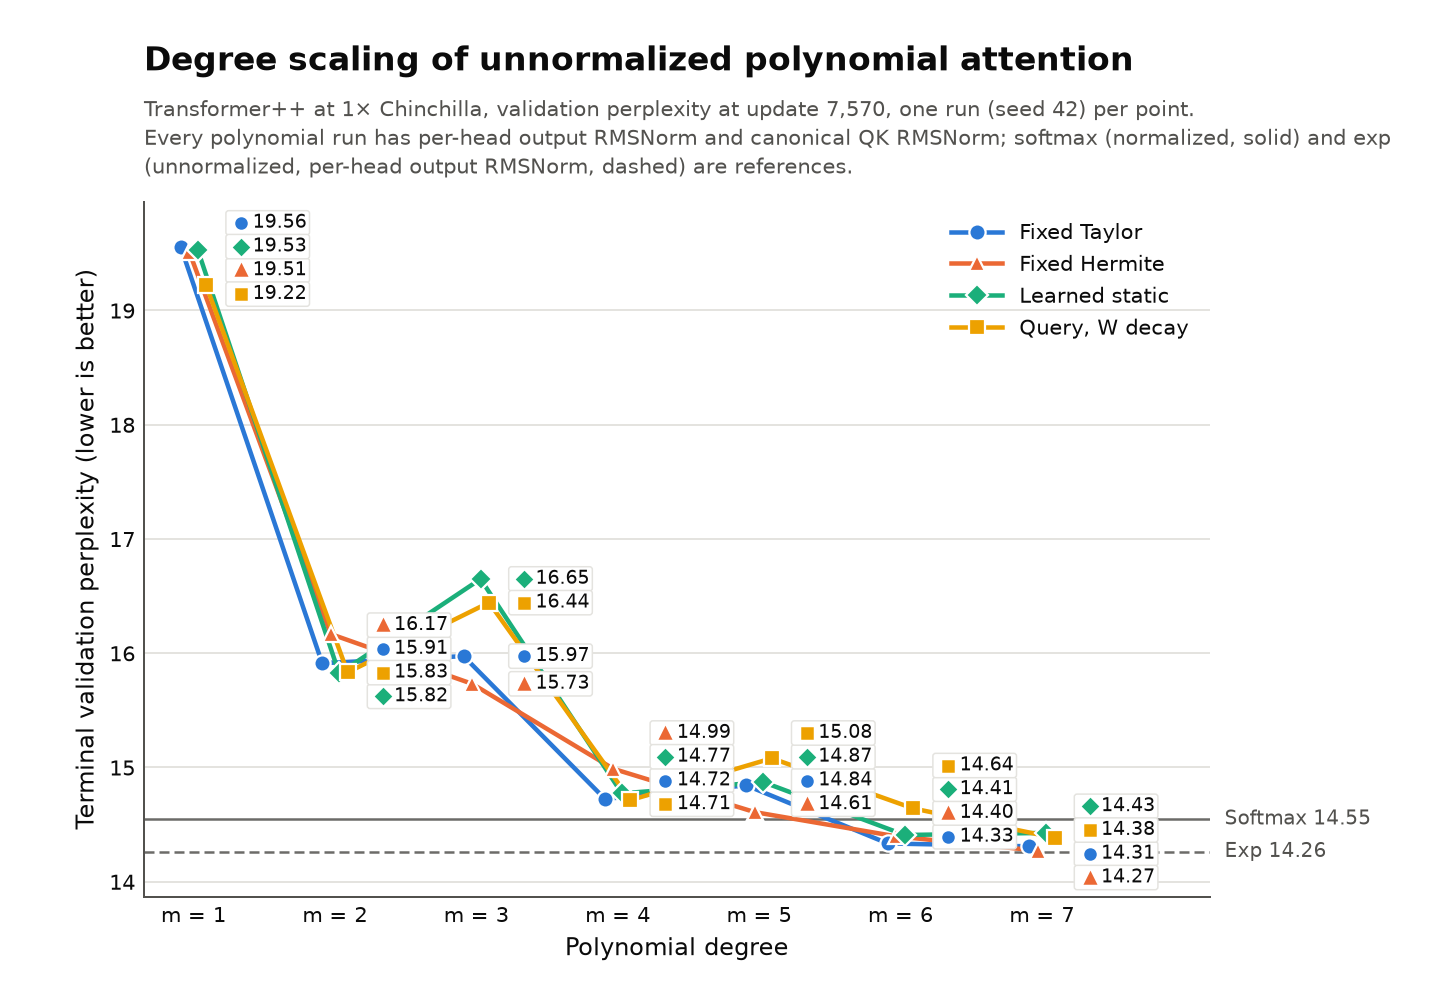
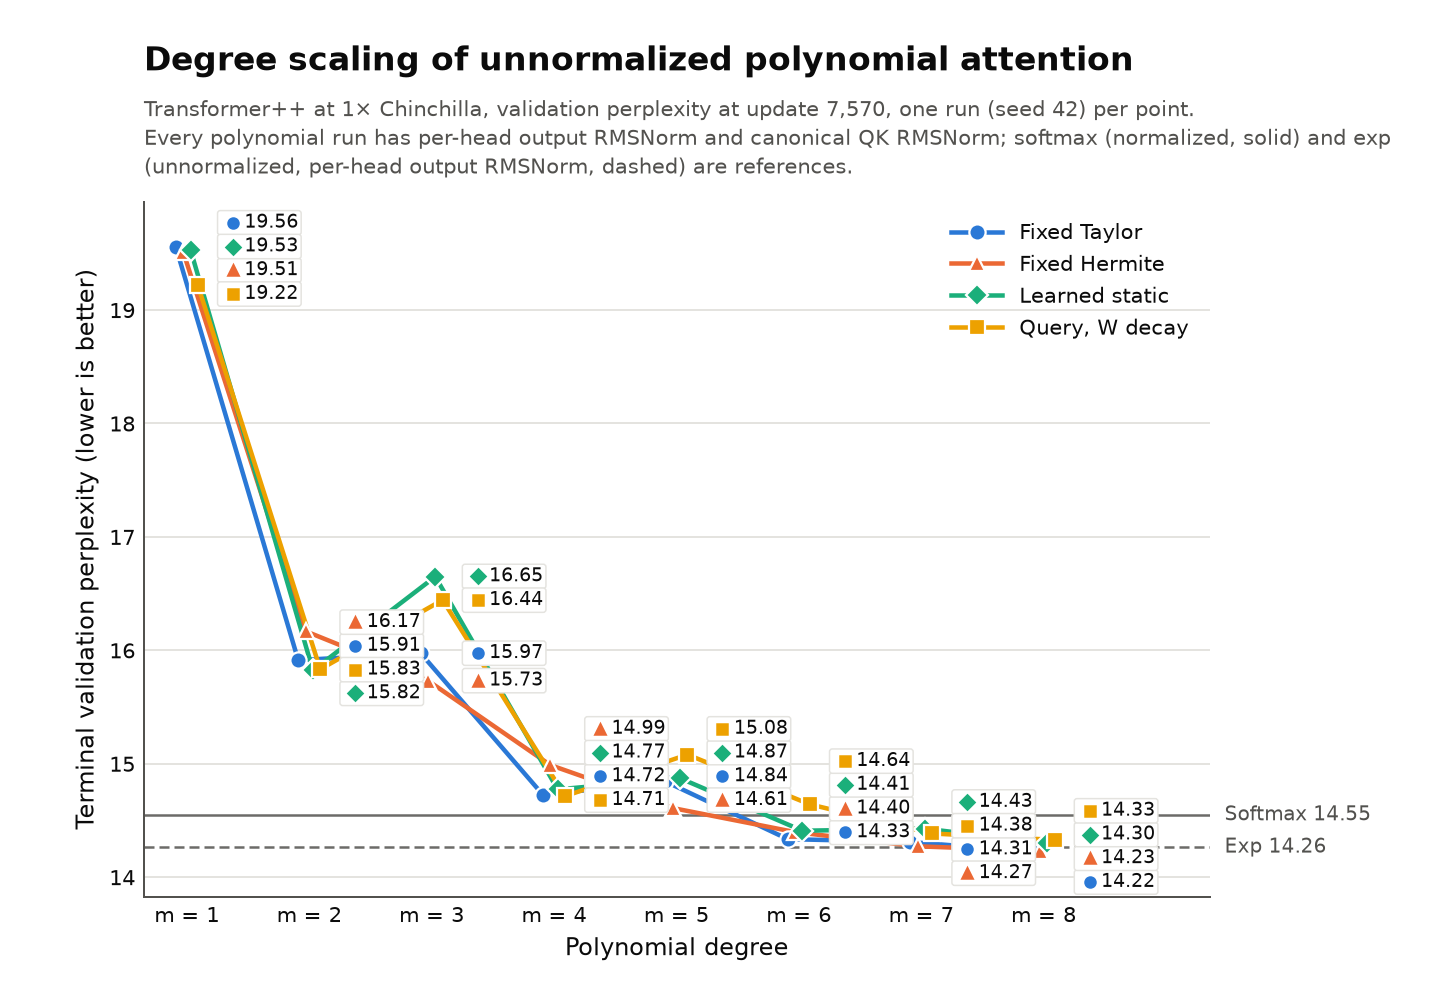
Add the m = 8 column to the degree-scaling collection
Fixed Taylor ra7ee8a4b2544 (14.223 terminal), Hermite ra040de24096c (14.231), static
r9c69dd7cfc8d (14.299) and query + W decay r25fffc16c2f3 (14.328): every family improves
from m = 7 and is best at m = 8, and the fixed families end 0.2-0.3% below exp. The recipe
check treats the newer fields records create fills as their historical defaults, and the
indexes and READMEs now describe m = 1-8 with thirty-two runs.

Changed region(s): [[0.0625, 0.2153, 0.9688, 0.9226], [0.0625, 0.6458, 0.0938, 0.6766]]

diff --git a/experiments/transformer_pp/results/degree_scaling/tests/test_degree_scaling.py b/experiments/transformer_pp/results/degree_scaling/tests/test_degree_scaling.py
@@ -25,6 +25,7 @@ TERMINAL = {
     ("query_w_decay", 1): 19.219, ("query_w_decay", 2): 15.832, ("query_w_decay", 3): 16.443,
     ("query_w_decay", 4): 14.714, ("query_w_decay", 5): 15.080, ("query_w_decay", 6): 14.641,
     ("query_w_decay", 7): 14.384,
+    ("taylor", 8): 14.223, ("hermite", 8): 14.231, ("static", 8): 14.2985, ("query_w_decay", 8): 14.328,
 }
 
 
@@ -35,7 +36,7 @@ def _digest(path: Path) -> str:
 def test_committed_runs_and_quoted_values():
     rows = load_runs(SELECTION)
     cells = {(row["family"], row["degree"]): row for row in rows if row["role"] == "primary"}
-    assert len(rows) == 30 and set(cells) == set(TERMINAL)
+    assert len(rows) == 34 and set(cells) == set(TERMINAL)
     assert {row["terminal_step"] for row in rows} == {7570}
     assert {row["best_validation_step"] for row in rows} == {7500}
     for cell, value in TERMINAL.items():
@@ -58,6 +59,13 @@ def test_committed_runs_and_quoted_values():
     assert cells["static", 7]["change_from_previous_degree_percent"] == pytest.approx(0.13, abs=5e-3)
     assert cells["query_w_decay", 7]["change_from_previous_degree_percent"] == pytest.approx(-1.75, abs=5e-3)
     assert cells["hermite", 7]["percent_above_exp"] == pytest.approx(0.07, abs=5e-3)
+    # m = 8: every family improves; the fixed families end 0.2-0.3% below exp.
+    assert cells["taylor", 8]["change_from_previous_degree_percent"] == pytest.approx(-0.60, abs=5e-3)
+    assert cells["static", 8]["change_from_previous_degree_percent"] == pytest.approx(-0.89, abs=5e-3)
+    assert cells["taylor", 8]["percent_above_exp"] == pytest.approx(-0.27, abs=5e-3)
+    assert cells["hermite", 8]["percent_above_exp"] == pytest.approx(-0.21, abs=5e-3)
+    assert cells["query_w_decay", 8]["percent_above_exp"] == pytest.approx(0.46, abs=5e-3)
+    assert cells["taylor", 8]["percent_above_softmax"] == pytest.approx(-2.22, abs=5e-3)
     # The m = 1 Taylor and Hermite runs train the same function; their gap is the noise scale.
     twin = cells["taylor", 1]["terminal_validation_perplexity"] - cells["hermite", 1]["terminal_validation_perplexity"]
     assert twin == pytest.approx(0.042, abs=5e-4)

diff --git a/experiments/transformer_pp/results/degree_scaling/plot.py b/experiments/transformer_pp/results/degree_scaling/plot.py
@@ -59,6 +59,9 @@ ABSENT = {
     "continuation.parent_step": 0, "model.attention_forget_gate": False,
     "model.attention_coefficient_kernel_weight_decay": False, "model.qk_norm_token_scale": "none",
     "model.qk_norm_token_scale_kernel_weight_decay": False, "optim.query_coefficient_learning_rate_scale": 1.0,
+    "continuation.preserve_all_parameters": False, "model.attention_coefficient_orders": None,
+    "model.attention_forget_gate_form": "input", "model.attention_forget_gate_mode": "cumulative",
+    "model.attention_forget_gate_conditioning": "query", "model.attention_forget_gate_rate_activation": "softplus",
 }
 # Within a family only the degree changes, with the Hermite coefficients it determines;
 # between families the coefficient parameterization changes too, and the references also

diff --git a/experiments/transformer_pp/results/degree_scaling/README.md b/experiments/transformer_pp/results/degree_scaling/README.md
@@ -1,7 +1,7 @@
 # Degree scaling at 1×
 
 **Question.** How does held-out perplexity change with the polynomial degree
-`m = 1, 2, 3, 4, 5, 6, 7` for fixed Taylor, fixed Hermite, learned static, and query
+`m = 1, 2, 3, 4, 5, 6, 7, 8` for fixed Taylor, fixed Hermite, learned static, and query
 coefficients with projection weight decay, under the Transformer++ recipe at 1×
 Chinchilla?
 
@@ -24,12 +24,12 @@ Mosaic kernels.
 - **Query, W decay:** `c_r(x_t) = [b_r + a_r tanh(w_r^T x_t)]/r!` per layer and head,
   starting at Taylor, with AdamW weight decay 0.1 on the projection `w_r`.
 
-| Family | m = 1 | m = 2 | m = 3 | m = 4 | m = 5 | m = 6 | m = 7 |
-| --- | --- | --- | --- | --- | --- | --- | --- |
-| Fixed Taylor | `ra7f2fda1c792` | `rdb1c706a5b85` | `r81fad1755b11` | `r816ab0fbe119` | `r8a526282ac43` | `r167091e2aeac` | `re12e78d1ded3` |
-| Fixed Hermite | `rddf0b0173f42` | `rdf6363a4b83c` | `rf378c0e67607` | `rbd0cd771c676` | `rf1993c745e17` | `r3a332ae60437` | `r751e8aaecb78` |
-| Learned static | `r5c691128699f` | `r99c3ab7d8a77` | `r1f880c4ee659` | `r4339a245820e` | `r3feaf71ff7af` | `r5e6f23bd0533` | `r99ba8f9d26fc` |
-| Query, W decay | `rf9099d70ab3a` | `rd6b4d16d81bb` | `r00f1f91a7803` | `rca97cc9db8f2` | `r5de86f9f02da` | `r688344e6dcc6` | `rdb67453630c8` |
+| Family | m = 1 | m = 2 | m = 3 | m = 4 | m = 5 | m = 6 | m = 7 | m = 8 |
+| --- | --- | --- | --- | --- | --- | --- | --- | --- |
+| Fixed Taylor | `ra7f2fda1c792` | `rdb1c706a5b85` | `r81fad1755b11` | `r816ab0fbe119` | `r8a526282ac43` | `r167091e2aeac` | `re12e78d1ded3` | `ra7ee8a4b2544` |
+| Fixed Hermite | `rddf0b0173f42` | `rdf6363a4b83c` | `rf378c0e67607` | `rbd0cd771c676` | `rf1993c745e17` | `r3a332ae60437` | `r751e8aaecb78` | `ra040de24096c` |
+| Learned static | `r5c691128699f` | `r99c3ab7d8a77` | `r1f880c4ee659` | `r4339a245820e` | `r3feaf71ff7af` | `r5e6f23bd0533` | `r99ba8f9d26fc` | `r9c69dd7cfc8d` |
+| Query, W decay | `rf9099d70ab3a` | `rd6b4d16d81bb` | `r00f1f91a7803` | `rca97cc9db8f2` | `r5de86f9f02da` | `r688344e6dcc6` | `rdb67453630c8` | `r25fffc16c2f3` |
 
 Four cells reuse completed Kennel runs: Taylor at `m = 4` (B300) and static at `m = 4`
 (H100 PCIe) trained with the earlier host-loop trainer, and query at `m = 2` (B300) and
@@ -54,6 +54,14 @@ The four `m = 7` runs copy their family's `m = 6` recipe with degree 7 (and, for
 the degree-7 coefficients) and trained on ORCD H100 80GB HBM3s with the same scaffold
 code, from a branch started at `c3e963a6`.
 
+At `m = 8`, fixed Taylor (`ra7ee8a4b2544`) and Hermite (`ra040de24096c`) copy their family's
+`m = 6` recipe with degree 8 (and, for Hermite, the degree-8 coefficients). Static
+(`r9c69dd7cfc8d`, the even-powers topic's full degree-eight control) and query
+(`r25fffc16c2f3`, from the key-width topic) are runs of the same recipes at degree 8; the
+recipe check confirms that all four differ from their family only in degree. All four
+trained on Kennel: Taylor and static on an H100 PCIe, Hermite on an H100 PCIe (preempted
+twice) and then an H100 SXM, and query on a B300.
+
 Hermite at `m = 1` is `exp(1/2)` times Taylor at `m = 1`. The output RMSNorm removes
 that factor, so the two runs train the same function up to the norm's epsilon and
 floating point; their difference measures how far equivalent runs diverge numerically.
@@ -65,30 +73,30 @@ No cell has a second seed.
 
 **Terminal validation perplexity (update 7,570); lowest per degree in bold**
 
-| Family | m = 1 | m = 2 | m = 3 | m = 4 | m = 5 | m = 6 | m = 7 |
-| --- | ---: | ---: | ---: | ---: | ---: | ---: | ---: |
-| Fixed Taylor | 19.556 | 15.912 | 15.974 | 14.724 | 14.843 | **14.334** | 14.309 |
-| Fixed Hermite | 19.513 | 16.168 | **15.732** | 14.987 | **14.609** | 14.396 | **14.271** |
-| Learned static | 19.531 | **15.822** | 16.649 | 14.773 | 14.871 | 14.408 | 14.427 |
-| Query, W decay | **19.219** | 15.832 | 16.443 | **14.714** | 15.080 | 14.641 | 14.384 |
+| Family | m = 1 | m = 2 | m = 3 | m = 4 | m = 5 | m = 6 | m = 7 | m = 8 |
+| --- | ---: | ---: | ---: | ---: | ---: | ---: | ---: | ---: |
+| Fixed Taylor | 19.556 | 15.912 | 15.974 | 14.724 | 14.843 | **14.334** | 14.309 | **14.223** |
+| Fixed Hermite | 19.513 | 16.168 | **15.732** | 14.987 | **14.609** | 14.396 | **14.271** | 14.231 |
+| Learned static | 19.531 | **15.822** | 16.649 | 14.773 | 14.871 | 14.408 | 14.427 | 14.299 |
+| Query, W decay | **19.219** | 15.832 | 16.443 | **14.714** | 15.080 | 14.641 | 14.384 | 14.328 |
 
 **Validation-best perplexity (update 7,500 in every run)**
 
-| Family | m = 1 | m = 2 | m = 3 | m = 4 | m = 5 | m = 6 | m = 7 |
-| --- | ---: | ---: | ---: | ---: | ---: | ---: | ---: |
-| Fixed Taylor | 19.541 | 15.907 | 15.968 | 14.722 | 14.841 | 14.328 | 14.304 |
-| Fixed Hermite | 19.495 | 16.164 | 15.722 | 14.984 | 14.602 | 14.393 | 14.268 |
-| Learned static | 19.522 | 15.820 | 16.640 | 14.767 | 14.868 | 14.406 | 14.424 |
-| Query, W decay | 19.205 | 15.827 | 16.436 | 14.709 | 15.074 | 14.637 | 14.379 |
+| Family | m = 1 | m = 2 | m = 3 | m = 4 | m = 5 | m = 6 | m = 7 | m = 8 |
+| --- | ---: | ---: | ---: | ---: | ---: | ---: | ---: | ---: |
+| Fixed Taylor | 19.541 | 15.907 | 15.968 | 14.722 | 14.841 | 14.328 | 14.304 | 14.218 |
+| Fixed Hermite | 19.495 | 16.164 | 15.722 | 14.984 | 14.602 | 14.393 | 14.268 | 14.225 |
+| Learned static | 19.522 | 15.820 | 16.640 | 14.767 | 14.868 | 14.406 | 14.424 | 14.294 |
+| Query, W decay | 19.205 | 15.827 | 16.436 | 14.709 | 15.074 | 14.637 | 14.379 | 14.323 |
 
 **Change in terminal perplexity from the previous degree**
 
-| Family | m = 1 | m = 2 | m = 3 | m = 4 | m = 5 | m = 6 | m = 7 |
-| --- | ---: | ---: | ---: | ---: | ---: | ---: | ---: |
-| Fixed Taylor | – | -18.6% | +0.4% | -7.8% | +0.8% | -3.4% | -0.2% |
-| Fixed Hermite | – | -17.1% | -2.7% | -4.7% | -2.5% | -1.5% | -0.9% |
-| Learned static | – | -19.0% | +5.2% | -11.3% | +0.7% | -3.1% | +0.1% |
-| Query, W decay | – | -17.6% | +3.9% | -10.5% | +2.5% | -2.9% | -1.8% |
+| Family | m = 1 | m = 2 | m = 3 | m = 4 | m = 5 | m = 6 | m = 7 | m = 8 |
+| --- | ---: | ---: | ---: | ---: | ---: | ---: | ---: | ---: |
+| Fixed Taylor | – | -18.6% | +0.4% | -7.8% | +0.8% | -3.4% | -0.2% | -0.6% |
+| Fixed Hermite | – | -17.1% | -2.7% | -4.7% | -2.5% | -1.5% | -0.9% | -0.3% |
+| Learned static | – | -19.0% | +5.2% | -11.3% | +0.7% | -3.1% | +0.1% | -0.9% |
+| Query, W decay | – | -17.6% | +3.9% | -10.5% | +2.5% | -2.9% | -1.8% | -0.4% |
 
 Softmax reference (`r9040f12f3d80`): terminal 14.546, validation-best 14.543 (update 7,500).
 
@@ -96,11 +104,11 @@ Exp reference (`r6a76e7fbde45`): terminal 14.262, validation-best 14.257 (update
 
 <!-- END GENERATED RESULTS -->
 
-- **All twenty-eight runs finished the 7,570 updates** with no numerical failure. Every run's
+- **All thirty-two runs finished the 7,570 updates** with no numerical failure. Every run's
   validation-best checkpoint is update 7,500, and its terminal perplexity is at most 0.1%
   higher; both metrics order the cells the same way.
 - **Going from `m = 1` to 2 is the largest step in every family**, 17–19% lower
-  perplexity. Taylor, Hermite, and query are best at `m = 7`, static at `m = 6`.
+  perplexity. Every family is best at `m = 8`.
 - **At `m = 4`, query (14.714), Taylor (14.724) and static (14.773) lie within 0.4% of
   one another**, inside the resolution below; Hermite (14.987) is 1.5–1.9% higher. All
   four stay 1.2–3.0% above softmax (14.546) and 3.2–5.1% above exp (14.262).
@@ -127,8 +135,12 @@ Exp reference (`r6a76e7fbde45`): terminal 14.262, validation-best 14.257 (update
   0.5% above exp (14.262).
 - **At `m = 7` the odd-degree stall fades.** Taylor (−0.2%) and static (+0.1%) stay level
   with `m = 6`, within the run-to-run gap, while query (−1.8%) and Hermite (−0.9%) keep
-  improving. All four end 0.8–1.9% below softmax, and Hermite (14.271) is 0.07% above exp,
-  the closest any polynomial here comes.
+  improving. All four end 0.8–1.9% below softmax, and Hermite (14.271) is 0.07% above exp.
+- **At `m = 8` every family improves again, and the fixed families reach exp.** Taylor
+  (14.223, −0.6% from `m = 7`) and Hermite (14.231, −0.3%) end 0.2–0.3% below exp (14.262),
+  within the run-to-run gap, and 2.2% below softmax; static (14.299, −0.9%) and query
+  (14.328, −0.4%) stay 0.3–0.5% above exp. The fixed coefficients lead the learned ones by
+  0.5–0.7%.
 - **Equivalent runs diverge by about 0.2%.** Taylor and Hermite at `m = 1` end 0.042 apart
   (19.556 and 19.513). Learned static at `m = 1` adds nothing the per-head score scale
   cannot express while its constant coefficient stays positive, which it does in all 210
@@ -148,7 +160,9 @@ Exp reference (`r6a76e7fbde45`): terminal 14.262, validation-best 14.257 (update
   host loop, which computes the same sums with different rounding. Query's step from
   `m = 2` to 3 therefore also changes GPU and source commit; static's does not. The steps
   from `m = 4` to 5 for Taylor, static, and query change GPU, trainer loop, or source commit,
-  because their `m = 4` cells are the reused Kennel runs; Hermite's does not.
+  because their `m = 4` cells are the reused Kennel runs; Hermite's does not. The `m = 8`
+  column trained on Kennel (H100 PCIe, H100 SXM, B300), so every step from `m = 7` changes
+  GPU and source commit.
 - The comparison is one 1× budget and schedule. Every `m = 1` run was still closing on
   its `m = 2` run when training ended, and fixed Taylor at `m = 2` overtook `m = 3` only
   after update 6,000, so the ranking may change with more tokens.

diff --git a/README.md b/README.md
@@ -12,7 +12,7 @@ a result collection can combine runs from several studies.
 | Polynomial Gated DeltaNet: independent erase, polynomial memory, key width | [Heatmap and validation gap](results/gdn_polynomial/README.md) | [10B attention runs](experiments/attention_scaling/README.md#polynomial-gated-deltanet) |
 | Rational polynomial attention: separate learned denominator | [Comparison by denominator](results/rational_polynomial/README.md) | [10B attention runs](experiments/attention_scaling/README.md) |
 | Transformer++: attention variants under its recipe, with model shape and token budget per run | [Results and exploratory diagnostics](experiments/transformer_pp/results/README.md) | [Recipe and runs](experiments/transformer_pp/README.md) |
-| Transformer++ degree scaling: fixed Taylor, fixed Hermite, learned static, and query coefficients at `m = 1-4` | [Perplexity by degree](experiments/transformer_pp/results/degree_scaling/README.md) | [Recipe and runs](experiments/transformer_pp/README.md#degree-scaling) |
+| Transformer++ degree scaling: fixed Taylor, fixed Hermite, learned static, and query coefficients at `m = 1-8` | [Perplexity by degree](experiments/transformer_pp/results/degree_scaling/README.md) | [Recipe and runs](experiments/transformer_pp/README.md#degree-scaling) |
 | Transformer++ model scale: seven attention variants at the 12-layer width-640 shape against their reference-shape partners | [Comparison across shapes](experiments/transformer_pp/results/model_scale/README.md) | [Recipe and runs](experiments/transformer_pp/README.md#model-scale) |
 | State rank | [Figures and findings](results/state_rank/README.md) | [Runs and execution](experiments/state_rank/README.md) |
 

diff --git a/experiments/transformer_pp/results/README.md b/experiments/transformer_pp/results/README.md
@@ -5,9 +5,9 @@ run IDs and pin their scientific inputs; measurements, recipes, execution record
 and retained artifacts remain under `../runs/`.
 
 The canonical [degree scaling](degree_scaling/README.md) collection plots 1× terminal
-validation perplexity against polynomial degree `m = 1-4` for fixed Taylor, fixed
+validation perplexity against polynomial degree `m = 1-8` for fixed Taylor, fixed
 Hermite, learned static, and query coefficients with projection weight decay, with
-softmax as the reference level; all sixteen runs are complete.
+softmax as the reference level; all thirty-two runs are complete.
 
 The canonical [model scale](model_scale/README.md) collection repeats seven attention
 variants at the 12-layer width-640 shape (98,977,016 parameters at 1×) and compares each

diff --git a/experiments/transformer_pp/README.md b/experiments/transformer_pp/README.md
@@ -202,7 +202,7 @@ node of every allocation.
 ## Degree scaling
 
 The [degree scaling collection](results/degree_scaling/README.md) plots 1× terminal validation
-perplexity against polynomial degree `m = 1, 2, 3, 4, 5, 6, 7` for four coefficient families of
+perplexity against polynomial degree `m = 1, 2, 3, 4, 5, 6, 7, 8` for four coefficient families of
 unnormalized polynomial attention with per-head output RMSNorm and the canonical QK
 setup: fixed Taylor (`c_r = 1/r!`), fixed Hermite (`exp(1/2) sum_r He_r(s)/r!` in
 monomial form, the attention_scaling study's coefficients), learned static coefficients,
